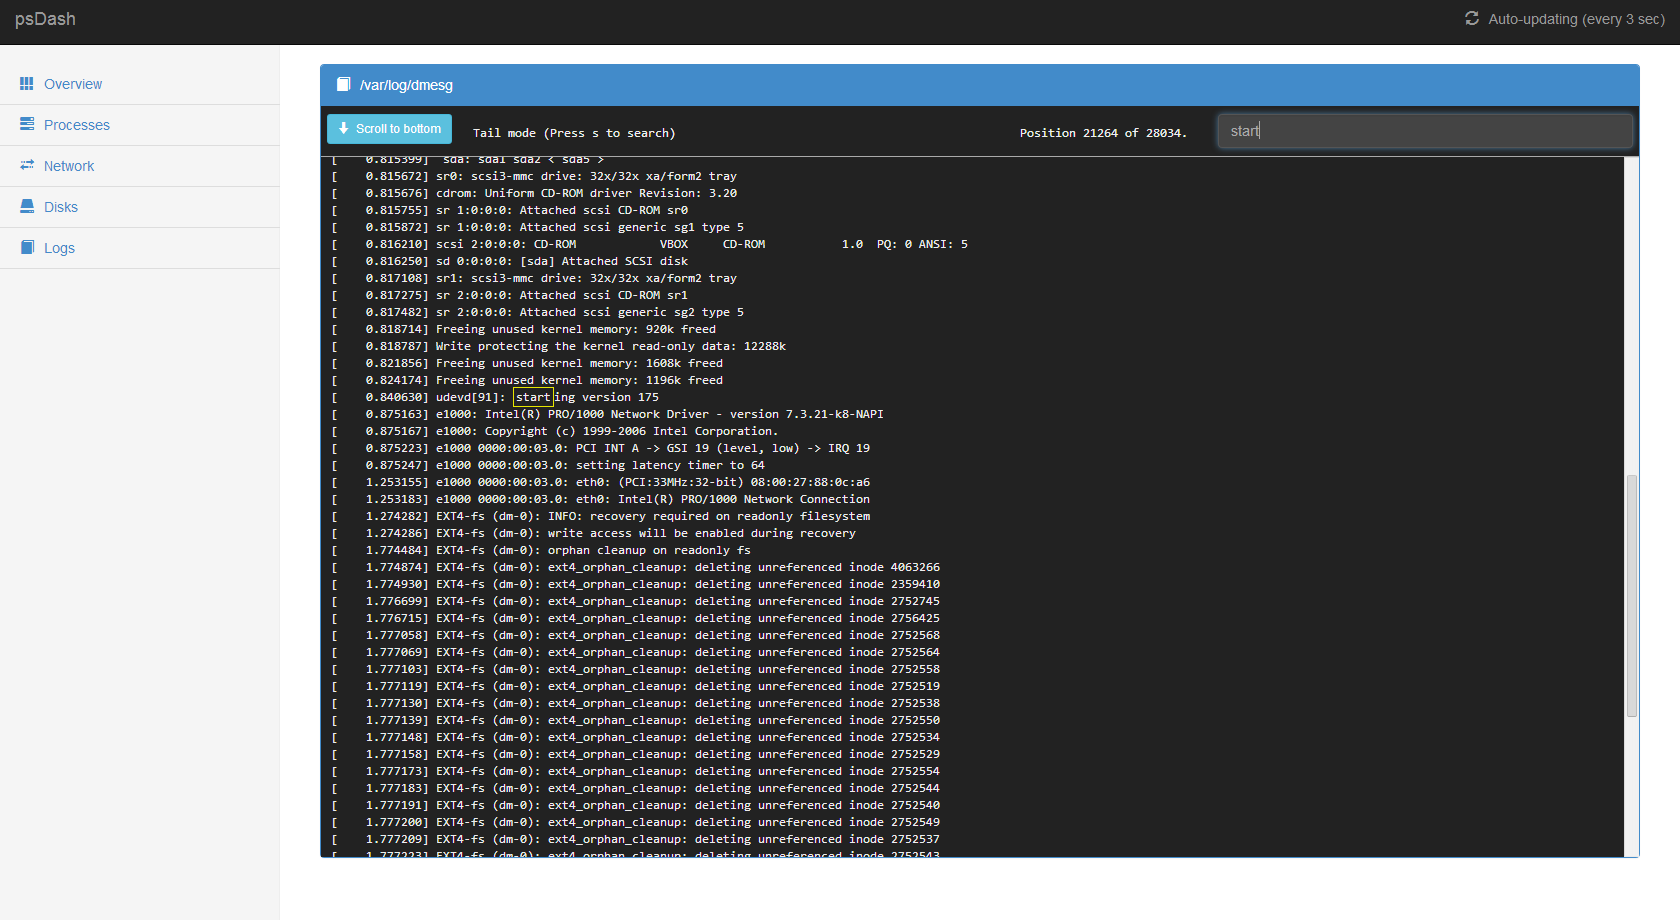
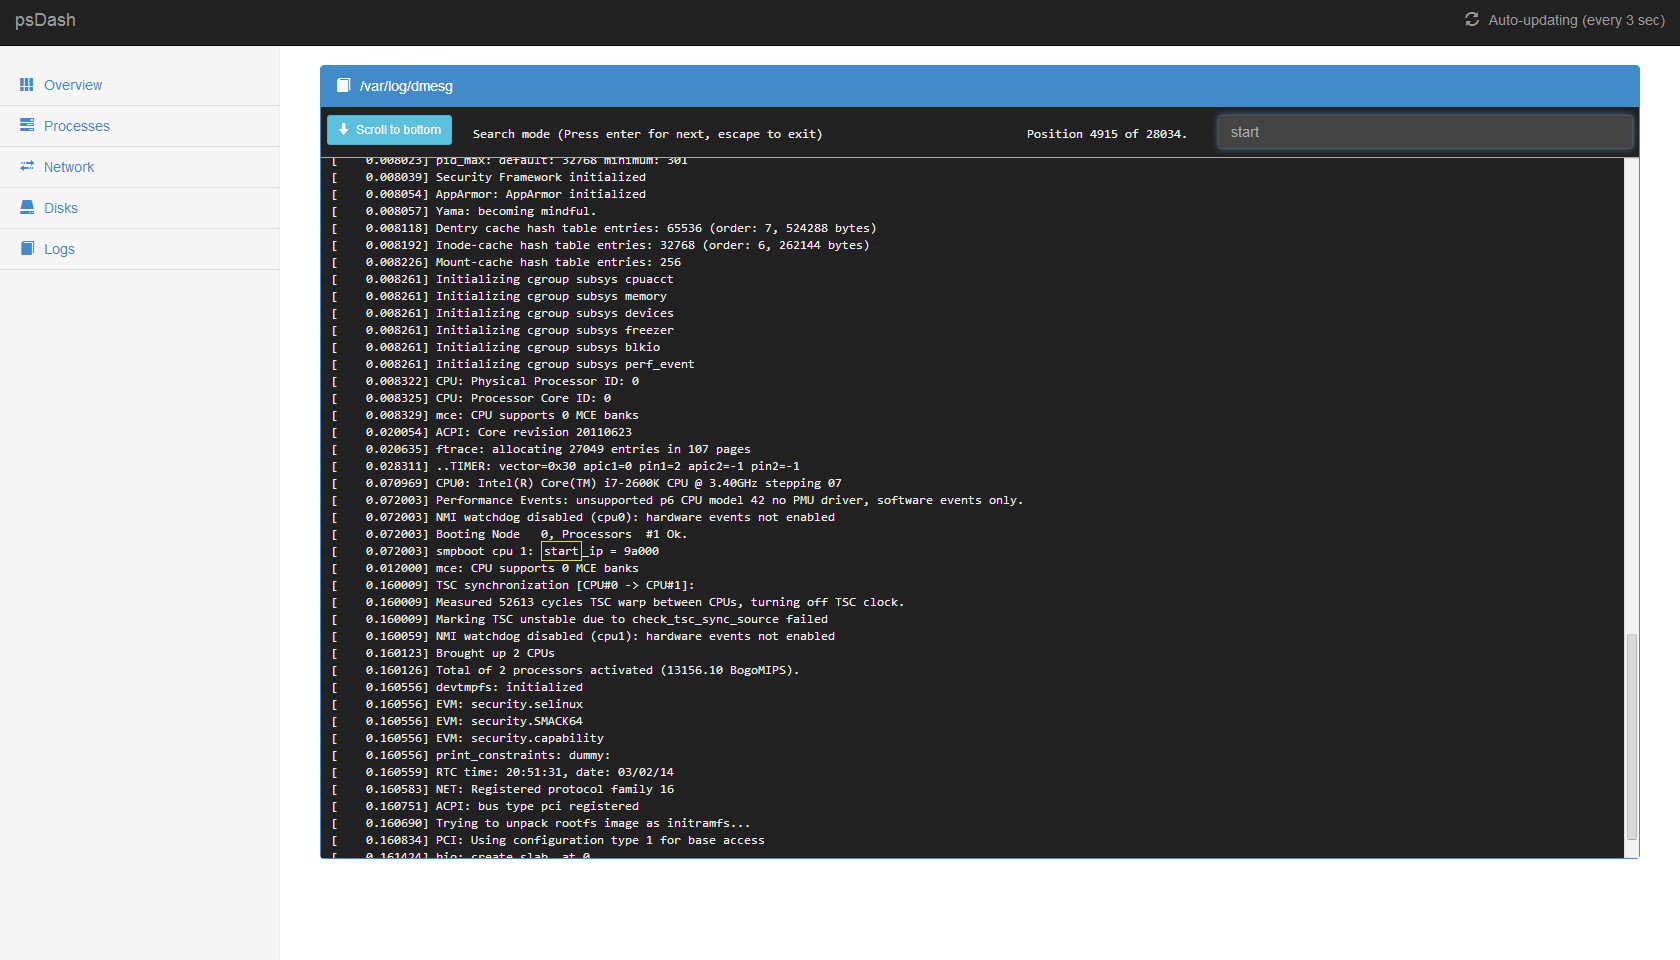
Fixed bug not changing status text to search mode

diff --git a/psdash/static/js/psdash.js b/psdash/static/js/psdash.js
@@ -34,7 +34,7 @@ function init_log() {
     function exit_search_mode() {
         var $el = $("#log-content");
         $el.data("mode", "tail");
-        var $controls = $("#logs").find(".controls");
+        var $controls = $("#log").find(".controls");
         $controls.find(".mode-text").text("Tail mode (Press s to search)");
         $controls.find(".status-text").hide();
 
@@ -63,7 +63,7 @@ function init_log() {
         };
 
         $el.data("mode", "search");
-        $("#logs").find(".controls .mode-text").text("Search mode (Press enter for next, escape to exit)");
+        $("#log").find(".controls .mode-text").text("Search mode (Press enter for next, escape to exit)");
 
         $.get("/log/search", params, function (resp) {
             var $log = $("#log");
